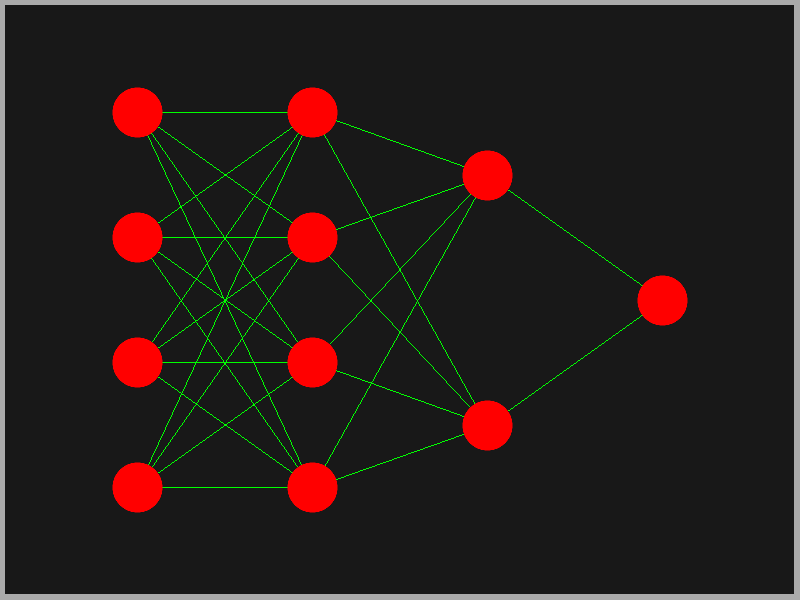
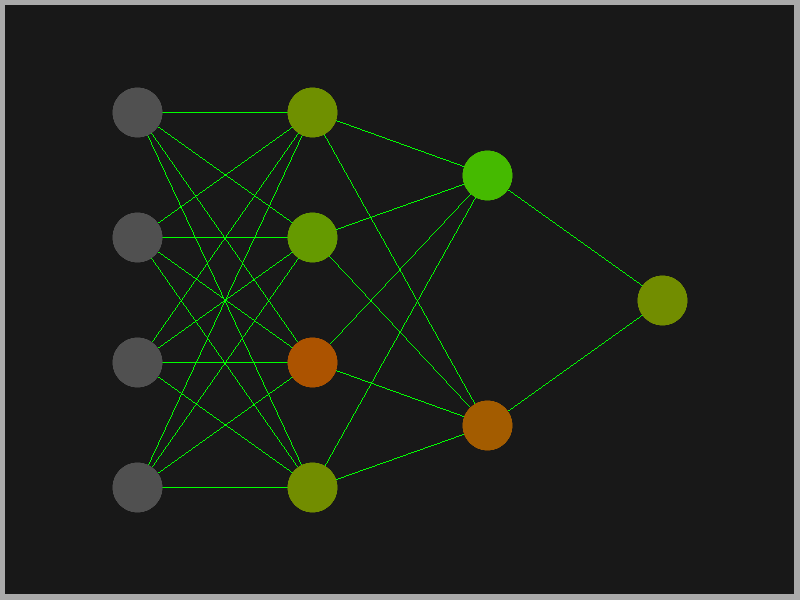
blend neruorn color with bias, weight value

diff --git a/framework/dump/dump_nn.c b/framework/dump/dump_nn.c
@@ -15,7 +15,7 @@ int main(void)
     size_t arch[] = {4, 4, 2, 1};
     size_t arch_count = ARRAY_LEN(arch);
     NN nn = nn_alloc(arch, arch_count);
-    nn_rand(nn, 0, 1);
+    nn_rand(nn, -1, 1);
     NN_PRINT(nn);
 
     uint32_t neuron_color = 0xFF0000FF;
@@ -35,7 +35,6 @@ int main(void)
 
     for (size_t l = 0; l < arch_count; ++l) {
         int layer_vpad1 = nn_height / arch[l];
-
         for (size_t i = 0; i < arch[l]; ++i) {
             int cx1 = nn_x + l * layer_hpad + layer_hpad/2;
             int cy1 = nn_y + i * layer_vpad1 + layer_vpad1/2 ;
@@ -48,7 +47,15 @@ int main(void)
                     olivec_line(img, cx1, cy1, cx2, cy2, connection_color);
                 }
             }
-            olivec_circle(img, cx1, cy1, neuron_radius, neuron_color);
+
+            if  (l > 0) {
+                uint32_t s = floorf(255.f * sigmoidf(MAT_AT(nn.bs[l-1], 0, i)));
+                uint32_t neuron_color = 0xFF0000FF;
+                olivec_blend_color(&neuron_color, (s<<(8*3)) | 0x0000FF00);
+                olivec_circle(img, cx1, cy1, neuron_radius, neuron_color);
+            } else {
+                olivec_circle(img, cx1, cy1, neuron_radius, 0xFF505050);
+            }
         }
     }
 
